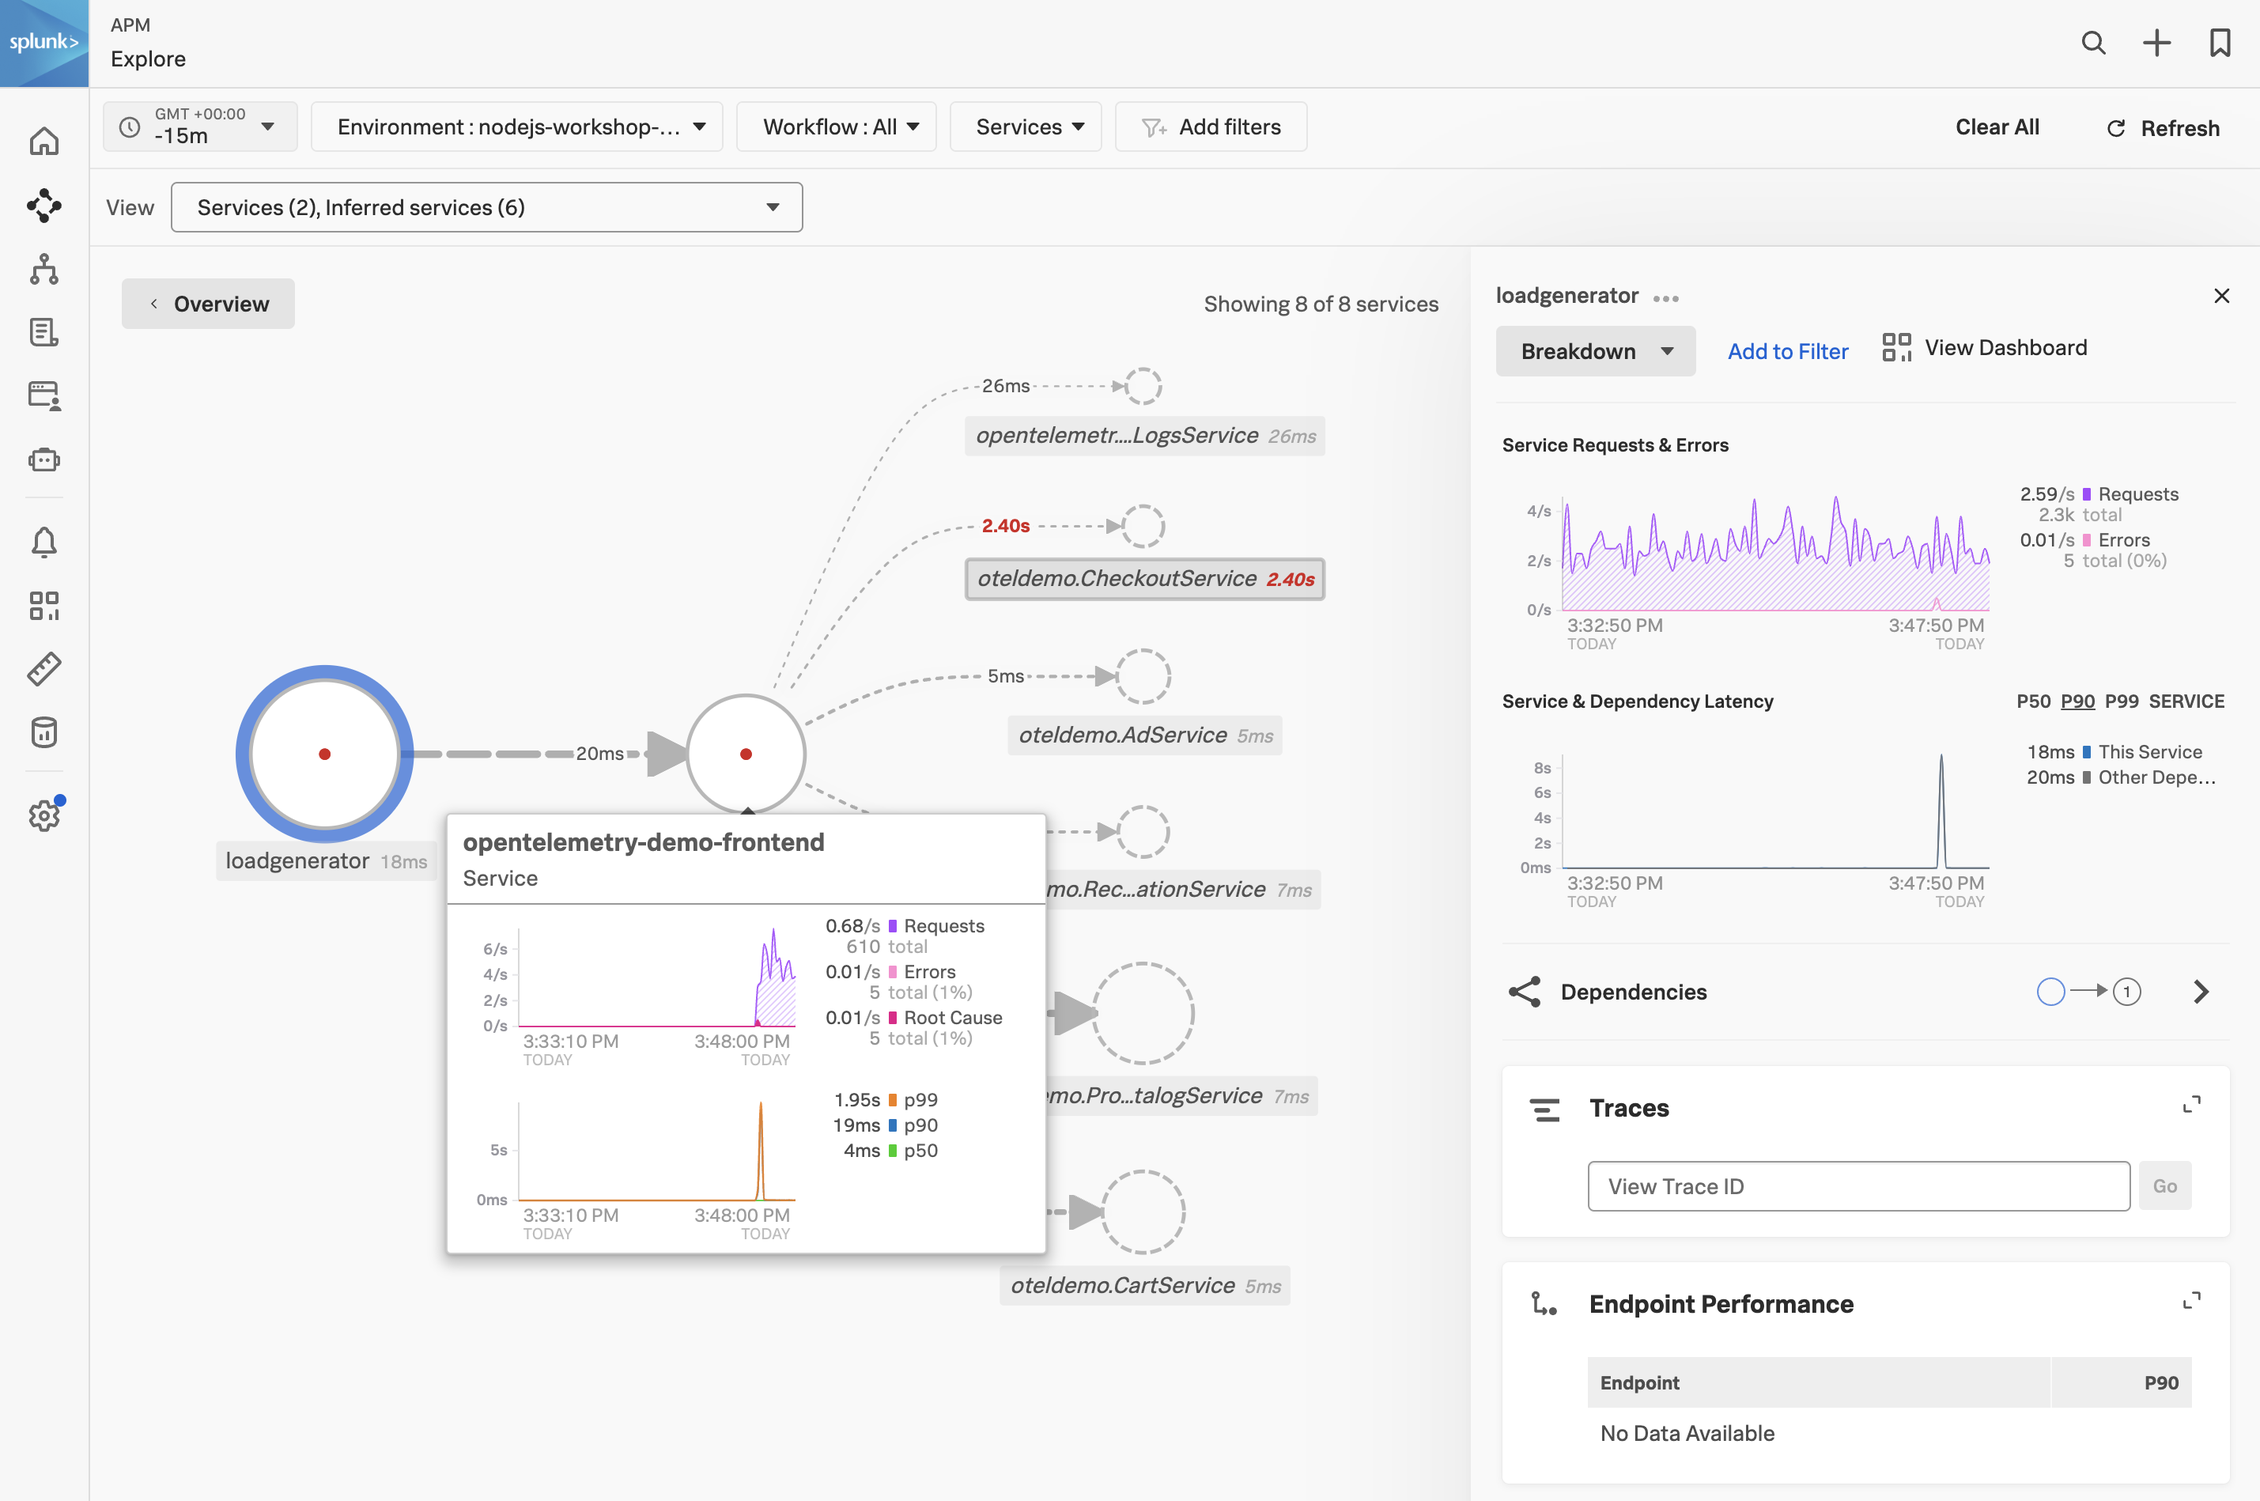
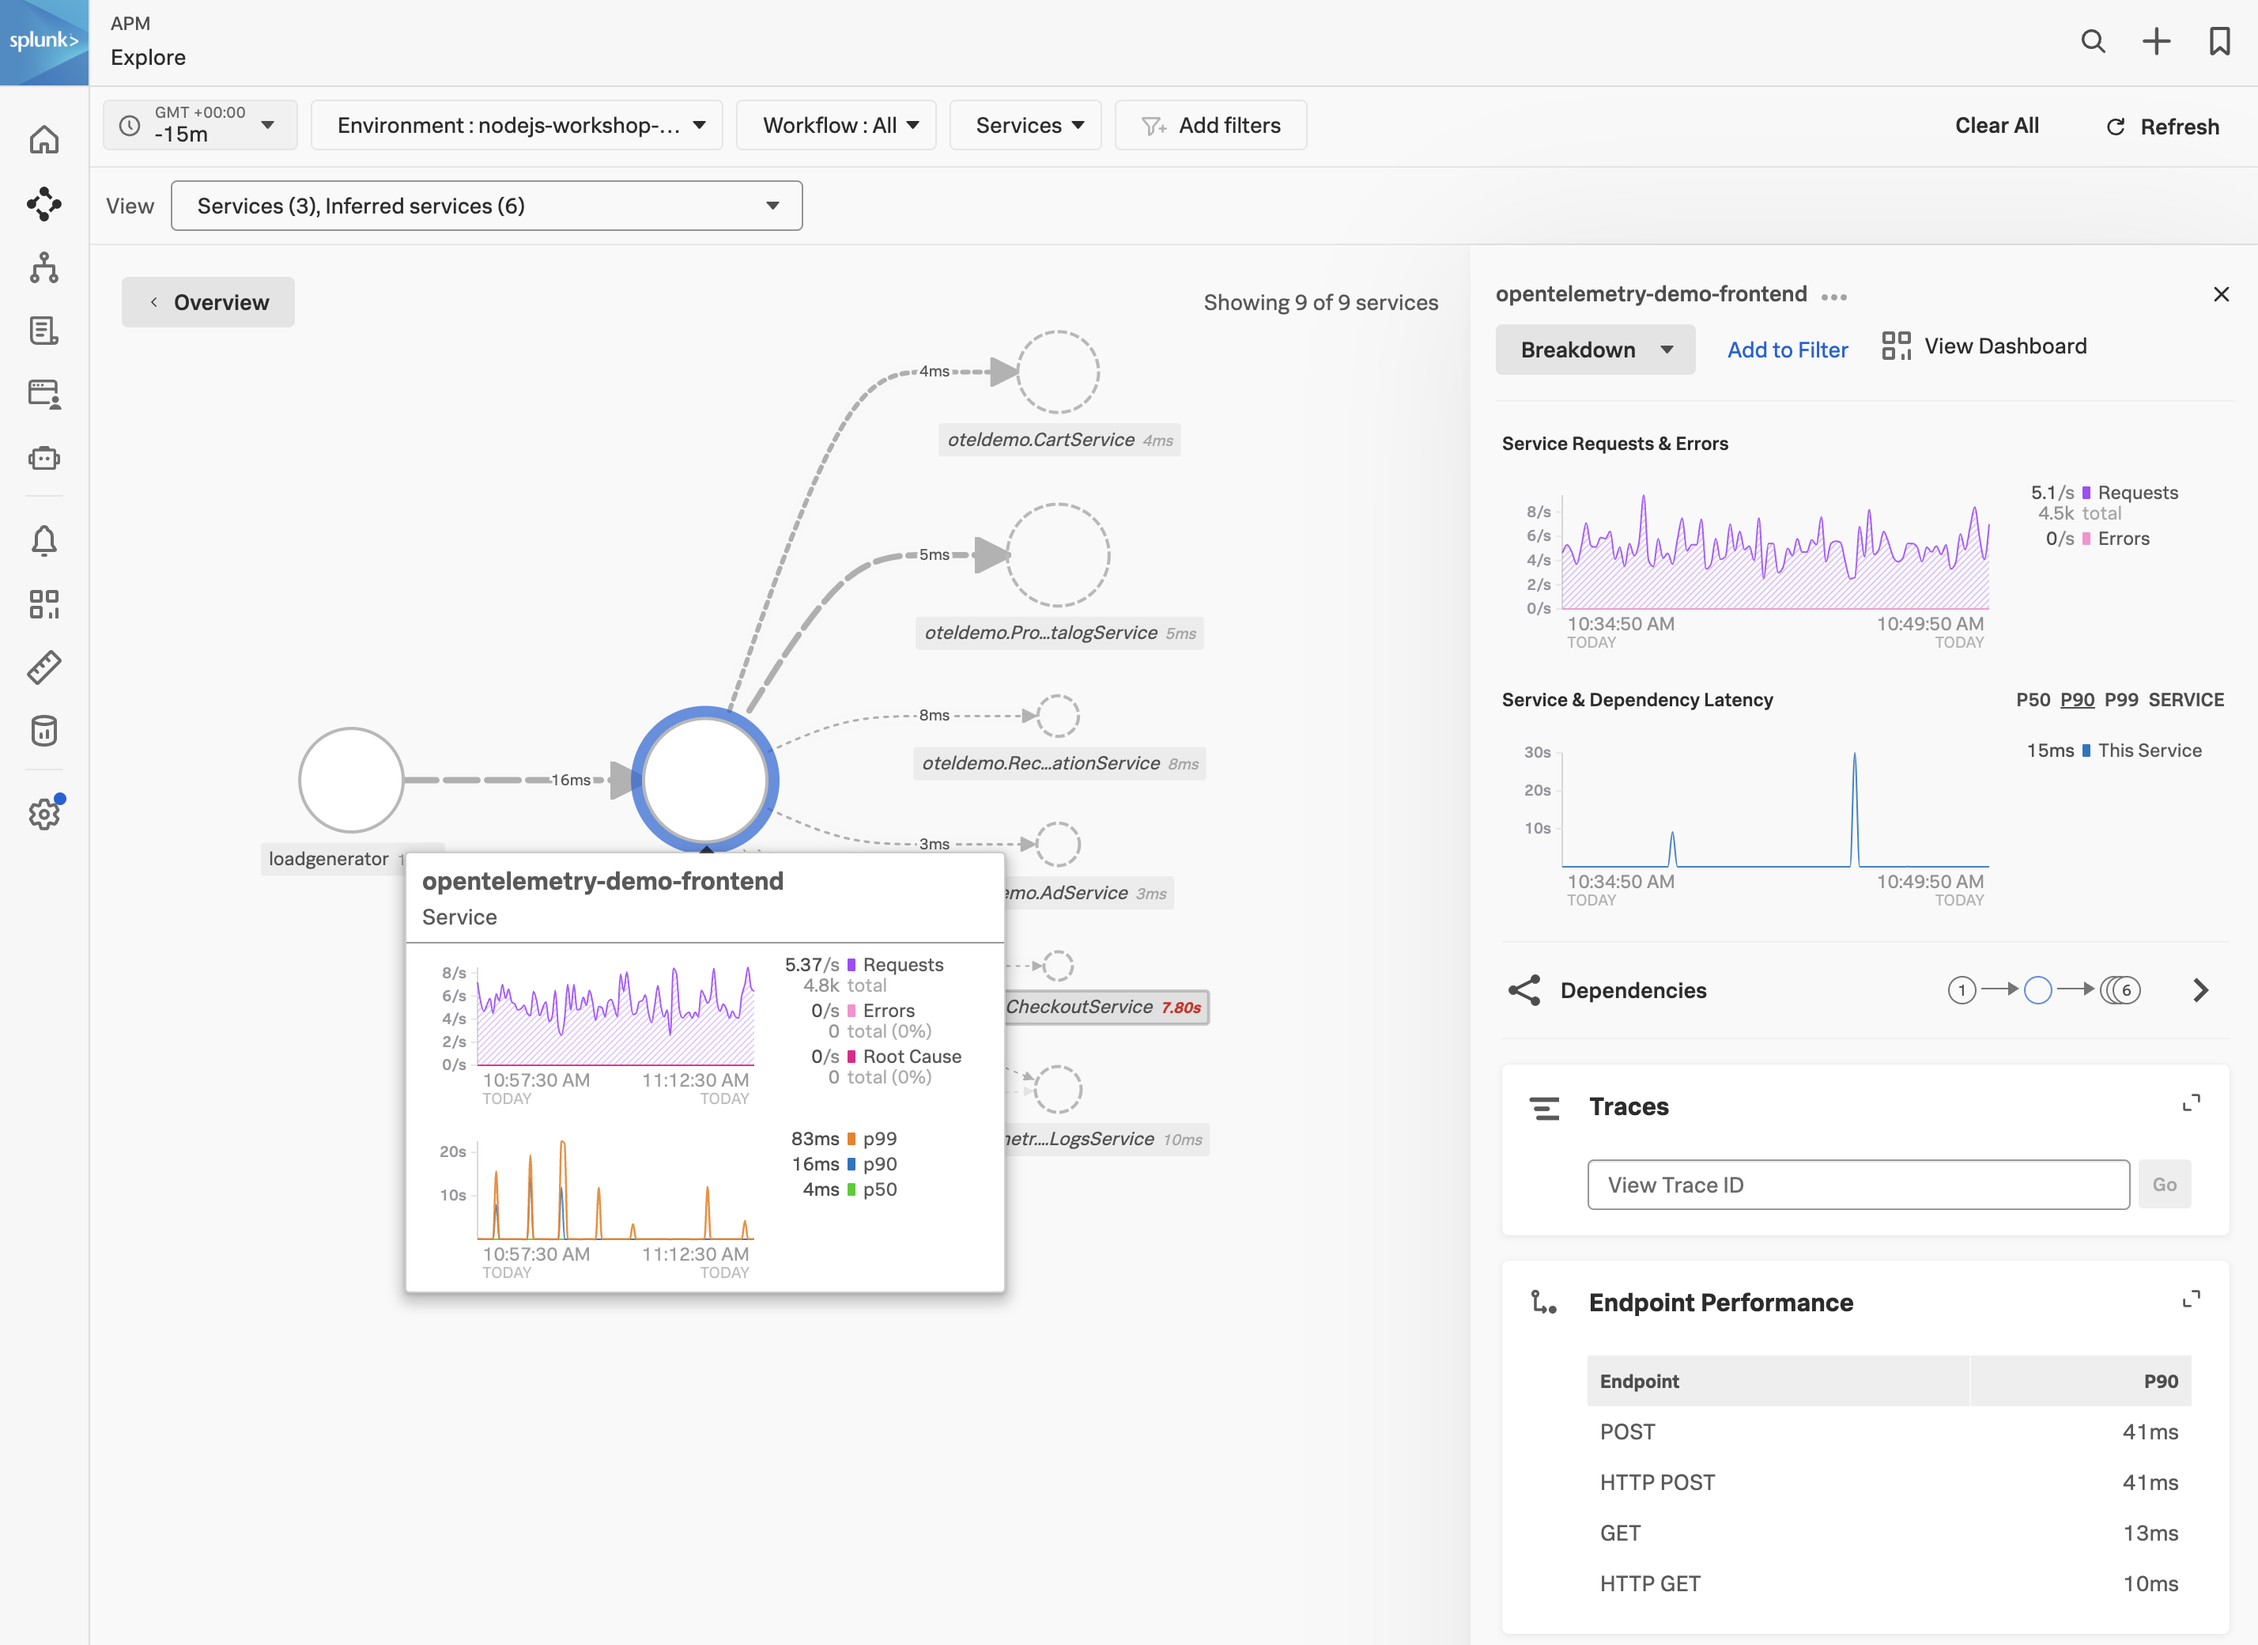
Logs and profiling

diff --git a/content/en/other/3-auto-instrumentation/2-nodejs/3-frontend-service.md b/content/en/other/3-auto-instrumentation/2-nodejs/3-frontend-service.md
@@ -1,8 +1,10 @@
 ---
-title: Zero Configuration Auto Instrumentation for NodeJS
-linkTitle: 3. Zero Configuration
+title: Zero Configuration - Frontend Service
+linkTitle: 3. Frontend Service
 weight: 3
 ---
+
+## 1. Patching the Frontend service
 
 First, confirm that you can see your environment in **APM**. There should be a service called `loadgenerator` displayed in the Service map.
 
@@ -22,12 +24,6 @@ After a few minutes, you should see the `frontend` service in **APM**.
 
 ![Frontend](../images/apm-frontend.png)
 
-Finally, we will patch the `paymentservice` deployment with an annotation to inject the NodeJS auto instrumentation. This will allow us to see the `paymentservice` service in **APM**.
+With the `frontend` service highlighted, click on the **Traces** tab to see the traces for the service. Select one of the traces and confirm that the trace contains metadata confirming that the Splunk Zero-Configuration Auto-Instrumentation for NodeJS is being used.
 
-``` bash
-kubectl patch deployment opentelemetry-demo-paymentservice -n otel-demo -p '{"spec": {"template":{"metadata":{"annotations":{"instrumentation.opentelemetry.io/inject-nodejs":"default/splunk-otel-collector"}}}} }'
-```
-
-This will cause the `opentelemetry-demo-paymentservice` pod to restart and after a few minutes, you should see the `paymentservice` service in **APM**.
-
-![Paymentservice](../images/apm-paymentservice.png)
+![Zero Configuration](../images/apm-frontend-trace.png)

diff --git a/content/en/other/3-auto-instrumentation/2-nodejs/5-profiling.md b/content/en/other/3-auto-instrumentation/2-nodejs/5-profiling.md
@@ -1,0 +1,23 @@
+---
+title: Code Profiling - Payment Service
+linkTitle: 5. Code Profiling
+weight: 5
+---
+
+## 1. AlwaysOn Profiling for the Payment Service
+
+**AlwaysOn Profiling** is a feature of the Splunk Distribution of OpenTelemetry Collector that allows you to collect CPU and Memory profiling data for your services without having to modify your code. This is useful for troubleshooting performance issues in your services. Here are some of the benefits of AlwaysOn Profiling:
+
+* Perform continuous profiling of your applications. The profiler is always on once you activate it.
+* Collect code performance context and link it to trace data.
+* Explore memory usage and garbage collection of your application.
+* Analyze code bottlenecks that impact service performance.
+* Identify inefficiencies that increase the need for scaling up cloud resources.
+
+With the `opentelemetry-demo-paymentservice` selected, click on **AlwaysOn Profiling** to view the code profiling data for the service.
+
+![AlwaysOn Profiling](../images/alwayson-profiling.png)
+
+Here you can see the CPU and Memory profiling data for the `paymentservice` service. You can also see the CPU and Memory profiling data for the `frontend` service by selecting the `opentelemetry-demofrontend` service from the **Service** dropdown.
+
+![Profiling Service](../images/profiling-service.png)

diff --git a/content/en/other/3-auto-instrumentation/2-nodejs/1-otel-demo.md b/content/en/other/3-auto-instrumentation/2-nodejs/1-otel-demo.md
@@ -1,8 +1,10 @@
 ---
 title: Deploying the OpenTelemetry Demo
-linkTitle: 1. OpenTelemetry Demo
+linkTitle: 1. Deploy OpenTelemetry Demo
 weight: 1
 ---
+
+## 1. Create a namespace
 
 To not conflict with other workshops, we will deploy the OpenTelemetry Demo in a separate namespace called `otel-demo`. To create the namespace, run the following command:
 
@@ -10,6 +12,7 @@ To not conflict with other workshops, we will deploy the OpenTelemetry Demo in a
 kubectl create namespace otel-demo
 ```
 
+## 2. Deploy the OpenTelemetry Demo
 Next, change to the directory containing the OpenTelemetry Demo application:
 
 ``` bash
@@ -105,6 +108,8 @@ opentelemetry-demo-cartservice-7c4f59bdd5-rfkf4             1/1     Running   0 
 
 {{% /tab %}}
 {{% /tabs %}}
+
+## 3. Validate the application is running
 
 To validate the application is running, we will port-forward the frontend service. To do this, run the following command:
 

diff --git a/content/en/other/3-auto-instrumentation/2-nodejs/4-payment-service.md b/content/en/other/3-auto-instrumentation/2-nodejs/4-payment-service.md
@@ -1,0 +1,17 @@
+---
+title: Zero Configuration - Payment Service
+linkTitle: 4. Payment Service
+weight: 4
+---
+
+## 1. Patching the Payment Service
+
+Finally, we will patch the `paymentservice` deployment with an annotation to inject the NodeJS auto instrumentation. This will allow us to see the `paymentservice` service in **APM**.
+
+``` bash
+kubectl patch deployment opentelemetry-demo-paymentservice -n otel-demo -p '{"spec": {"template":{"metadata":{"annotations":{"instrumentation.opentelemetry.io/inject-nodejs":"default/splunk-otel-collector"}}}} }'
+```
+
+This will cause the `opentelemetry-demo-paymentservice` pod to restart and after a few minutes, you should see the `paymentservice` service in **APM**.
+
+![Paymentservice](../images/apm-paymentservice.png)

diff --git a/content/en/other/3-auto-instrumentation/2-nodejs/2-otel-collector.md b/content/en/other/3-auto-instrumentation/2-nodejs/2-otel-collector.md
@@ -1,6 +1,6 @@
 ---
 title: Installing the OpenTelemetry Collector
-linkTitle: 2. OpenTelemetry Collector
+linkTitle: 2. Installing the Collector
 weight: 2
 ---
 
@@ -8,7 +8,7 @@ weight: 2
 
 {{% notice title="Delete any existing OpenTelemetry Collectors" style="warning" %}}
 
-If you have completed the Splunk IM workshop, please ensure you have deleted the collector running in Kubernetes before continuing. This can be done by running the following command:
+If you have completed any other Observability workshops, please ensure you delete the collector running in Kubernetes before continuing. This can be done by running the following command:
 
 ``` bash
 helm delete splunk-otel-collector

diff --git a/content/en/other/3-auto-instrumentation/2-nodejs/6-logs.md b/content/en/other/3-auto-instrumentation/2-nodejs/6-logs.md
@@ -1,0 +1,17 @@
+---
+title: Logs - Payment Service
+linkTitle: 6. Logs
+weight: 6
+---
+
+## 1. Viewing the logs for the Payment Service
+
+Navigate back to APM from the main menu and under **Services** click on `opentelemetry-demo-paymentservice`. This will open up the Service map for the `paymentservice` service only.
+
+At the bottom of the page, click on the **Logs(1)** tab to view the logs for the `paymentservice` service.
+
+![Related Logs](../images/related-logs.png)
+
+Once in **Log Observer** select one of the log entries to view the metadata for the log entry.
+
+![Log Entry](../images/log-entry.png)

diff --git a/content/en/other/3-auto-instrumentation/2-nodejs/_index.md b/content/en/other/3-auto-instrumentation/2-nodejs/_index.md
@@ -1,5 +1,5 @@
 ---
-title: NodeJS Workshop
+title: NodeJS Zero-Config Workshop
 weight: 2
 description: A workshop using Zero Configuration Auto-Instrumentation for NodeJS.
 hidden: true
